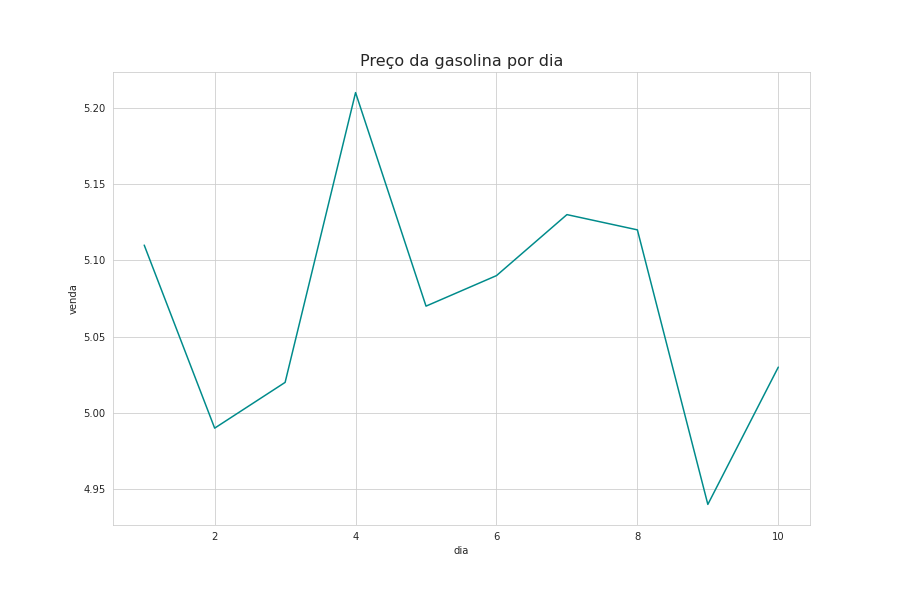
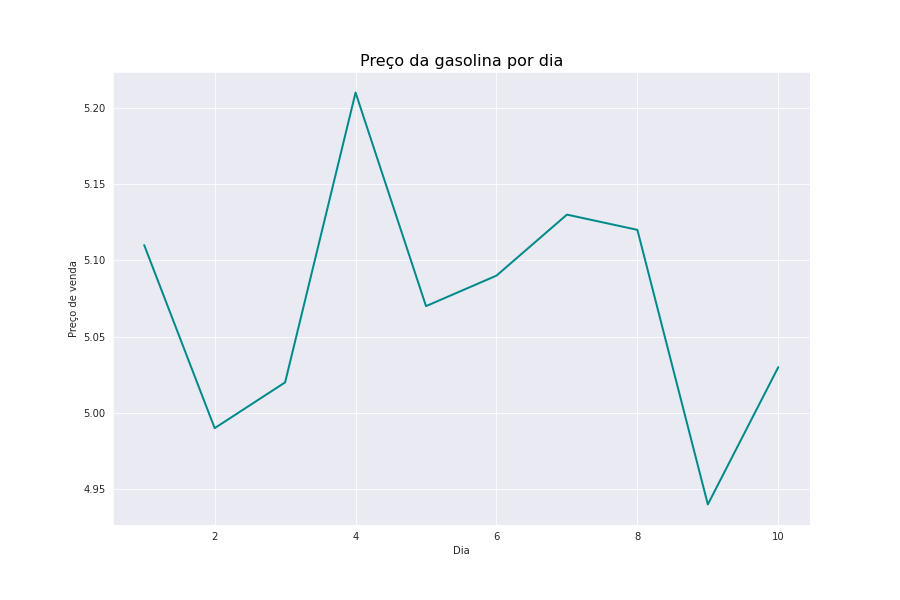
Atualização do fundo, legenda dos eixos e espessura da linha

diff --git a/gasolina.py b/gasolina.py
@@ -1,17 +1,19 @@
-import pandas as pd
 import seaborn as sns
+import pandas as pd
 import matplotlib.pyplot as plt
 
-gas_df = pd.read_csv('/content/std-Ebac/gasolina.csv')
 
+gas_df = pd.read_csv('gasolina.csv')
 
-
-with sns.axes_style('whitegrid'):
+with sns.axes_style('darkgrid'):
 
   fig = plt.subplots(figsize=(30/2.4, 20/2.4))
+  
+  grafico = sns.lineplot(data=gas_df, x='dia', y='venda', color='darkcyan', linewidth=2)
+  grafico.set_title('Preço da gasolina por dia', fontdict={"fontsize": 16, 'color': 'black'})
 
-  grafico = sns.lineplot(data=gas_df, x='dia', y='venda', color='darkcyan')
-  grafico.set_title('Preço da gasolina por dia', fontdict={'fontsize': 16})
+  grafico.set(ylabel="Preço de venda", xlabel='Dia')
+
 
   fig_png = grafico.get_figure()
   fig_png.savefig('gasolina.png')
